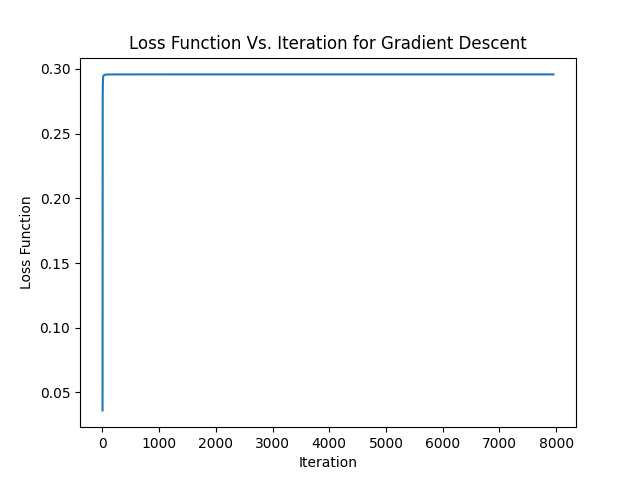
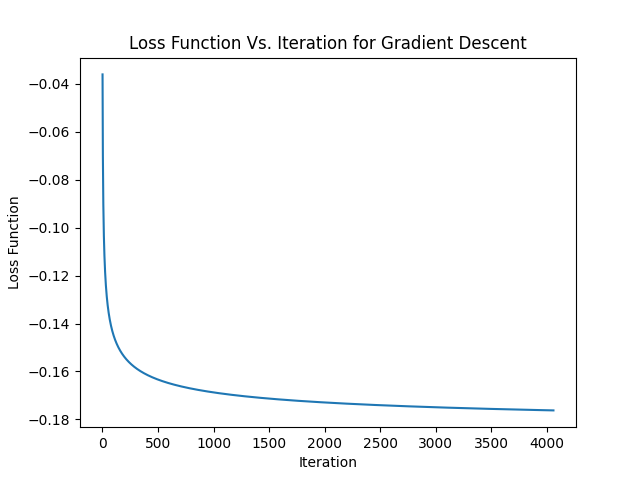
have part b of q4 kind of working

diff --git a/problem4/problem4_part2.py b/problem4/problem4_part2.py
@@ -52,7 +52,7 @@ def gradient_descent(
     beta : float,
     x : np.ndarray,
     y : np.ndarray,
-    tolerance : float = 1e-1
+    tolerance : float = 1e-8
 ) -> tuple[float, float, np.ndarray, np.ndarray, np.ndarray]:
     '''
     '''
@@ -75,9 +75,88 @@ def gradient_descent(
         new_w = np.array([params[0], params[1]])
         loss = loss_function(new_w, params[2], params[3], x, y)
         loss_history.append(loss)
-
-        print(np.dot(gradient.T, gradient))
     return params, loss_history
+
+def accelerated_gradient_descent(
+    w : np.ndarray,
+    alpha : float,
+    beta : float,
+    x : np.ndarray,
+    y : np.ndarray,
+    tolerance : float = 1e-8
+) -> tuple[float, float, np.ndarray, np.ndarray, np.ndarray]:
+    '''
+    '''
+    k = 1
+    loss_history = []
+
+    params_x = np.array([*w, alpha, beta])
+    params_x0 = params_x.copy()
+    params_x00 = params_x.copy()
+    params_y = params_x.copy()
+
+    loss = loss_function(w, alpha, beta, x, y)
+    loss_history.append(loss)
+    gradient = _gradient(w, alpha, beta, x, y)
+
+    while (np.dot(gradient.T, gradient) > tolerance):
+        new_w = np.array([params_x[0], params_x[1]])
+        gradient = _gradient(new_w, params_x[2], params_x[3], x, y)
+        step = exact_line_search(new_w, params_x[2], params_x[3], x, y, gradient)
+        
+        params_x = params_y + step * gradient
+        params_y = params_x0 + (k - 1) / (k + 2) * (params_x0 - params_x00)
+
+        loss_old = loss
+        new_w = np.array([params_x[0], params_x[1]])
+        loss = loss_function(new_w, params_x[2], params_x[3], x, y)
+        loss_history.append(loss)
+
+        params_x00 = params_x0.copy()
+        params_x0 = params_x.copy()
+
+        k += 1
+    return params_x, loss_history
+
+def stochastic_gradient_descent(
+    w : np.ndarray,
+    alpha : float,
+    beta : float,
+    x : np.ndarray,
+    y : np.ndarray,
+    tolerance : float = 1e-8
+) -> tuple[float, float, np.ndarray, np.ndarray, np.ndarray]:
+    '''
+    '''
+    loss_history = []
+
+    params = np.array([*w, alpha, beta])
+
+    x_batch = np.random.choice(x, size = 1)
+    y_batch = np.random.choice(y, size = 1)
+
+    loss = loss_function(w, alpha, beta, x, y)
+    loss_history.append(loss)
+    gradient = _gradient(w, alpha, beta, x_batch, y_batch) * len(y)
+
+    while (np.dot(gradient.T, gradient) > tolerance):
+        new_w = np.array([params[0], params[1]])
+
+        x_batch = np.random.choice(x, size = 1)
+        y_batch = np.random.choice(y, size = 1)
+
+        gradient = _gradient(new_w, params[2], params[3], x_batch, y_batch) * len(y)
+        step = exact_line_search(new_w, params[2], params[3], x_batch, y_batch, gradient)
+        
+        params = params + step * gradient
+
+        loss_old = loss
+        new_w = np.array([params[0], params[1]])
+        loss = loss_function(new_w, params[2], params[3], x, y)
+        loss_history.append(loss)
+
+    return params, loss_history
+ 
 
 if __name__ == '__main__':
     current_path = os.path.abspath(__file__)
@@ -92,6 +171,7 @@ if __name__ == '__main__':
 
     best_params, loss_history = gradient_descent(w, alpha, beta, x, y)
 
+    # =================
     # Plotting: Plot 1
     # =================
     iterations = np.arange(1, len(loss_history) + 1)
@@ -103,6 +183,46 @@ if __name__ == '__main__':
     plt.title('Loss Function Vs. Iteration for Gradient Descent')
     
     output_filepath = os.path.abspath(os.path.join(current_path, '..', '..', 'output', 'gradient_descent.png'))
+    plt.savefig(output_filepath)
+
+    plt.clf()
+    plt.cla()
+    # =================
+
+    best_params, loss_history = accelerated_gradient_descent(w, alpha, beta, x, y)
+
+    # =================
+    # Plotting: Plot 2
+    # =================
+    iterations = np.arange(1, len(loss_history) + 1)
+
+    ax = sns.lineplot(x = iterations, y = loss_history)
+
+    plt.xlabel('Iteration')
+    plt.ylabel('Loss Function')
+    plt.title('Loss Function Vs. Iteration for Accelerated Gradient Descent')
+    
+    output_filepath = os.path.abspath(os.path.join(current_path, '..', '..', 'output', 'accelerated_gradient_descent.png'))
+    plt.savefig(output_filepath)
+
+    plt.clf()
+    plt.cla()
+    # =================
+
+    best_params, loss_history = stochastic_gradient_descent(w, alpha, beta, x, y)
+
+    # =================
+    # Plotting: Plot 3
+    # =================
+    iterations = np.arange(1, len(loss_history) + 1)
+
+    ax = sns.lineplot(x = iterations, y = loss_history)
+
+    plt.xlabel('Iteration')
+    plt.ylabel('Loss Function')
+    plt.title('Loss Function Vs. Iteration for Stochastic Gradient Descent')
+    
+    output_filepath = os.path.abspath(os.path.join(current_path, '..', '..', 'output', 'stochastic_gradient_descent.png'))
     plt.savefig(output_filepath)
 
     plt.clf()

diff --git a/problem4/loss_function.py b/problem4/loss_function.py
@@ -17,20 +17,21 @@ def _partial_w(
 ) -> float:
     '''
     '''
-    _z_i1 = np.expand_dims(_sigma(alpha * x), axis = 0).T
-    _z_i2 = np.expand_dims(_sigma(beta * x), axis = 0).T
-    _z = np.hstack((_z_i1, _z_i2))
+    _z_i1 = w[0] * np.expand_dims(_sigma(alpha * x), axis = 0).T
+    _z_i2 = w[1] * np.expand_dims(_sigma(beta * x), axis = 0).T
+    inside_sigma = np.sum(np.hstack((_z_i1, _z_i2)), axis = 0)
 
-    inside_sigma = np.multiply(_z.T, w[:, np.newaxis]).T
+    y_new = np.vstack((y, y)).T
 
     dLdw = 2 *\
-            _sigma(inside_sigma) *\
+            (y_new - _sigma(inside_sigma)) *\
             _sigma(inside_sigma) *\
             [1 - _sigma(inside_sigma)] *\
-            np.sum(_z, axis = 0)
+            inside_sigma
 
-    I, J, K = dLdw.shape
-    dLdw = dLdw.reshape((J, K)) 
+    I, J = dLdw.shape
+
+    dLdw = dLdw.reshape((I, J)) 
 
     dLdw = -np.sum(dLdw, axis = 0)
 
@@ -45,21 +46,17 @@ def _partial_alpha(
 ) -> float:
     '''
     '''
-    _z_i1 = np.expand_dims(_sigma(alpha * x), axis = 0).T
-    _z_i2 = np.expand_dims(_sigma(beta * x), axis = 0).T
-    _z = np.hstack((_z_i1, _z_i2))
-
-    w = np.expand_dims(w, axis = 0)
-
-    inside_sigma = (w @ _z.T).flatten()
+    _z_i1 = w[0] * np.expand_dims(_sigma(alpha * x), axis = 0).T
+    _z_i2 = w[1] * np.expand_dims(_sigma(beta * x), axis = 0).T
+    inside_sigma = np.sum(np.hstack((_z_i1, _z_i2)), axis = 1)
 
     dLda = 2 *\
-            _sigma(inside_sigma) *\
+            (y - _sigma(inside_sigma)) *\
             _sigma(inside_sigma) *\
             [1 - _sigma(inside_sigma)] *\
-            w[0][0] *\
-            _sigma(alpha * _z_i1.flatten()) *\
-            [1 - _sigma(alpha * _z_i1.flatten())] *\
+            w[0] *\
+            _sigma(alpha * x) *\
+            [1 - _sigma(alpha * x)] *\
             x
 
     dLda = -np.sum(dLda)
@@ -74,21 +71,17 @@ def _partial_beta(
 ) -> float:
     '''
     '''
-    _z_i1 = np.expand_dims(_sigma(alpha * x), axis = 0).T
-    _z_i2 = np.expand_dims(_sigma(beta * x), axis = 0).T
-    _z = np.hstack((_z_i1, _z_i2))
-
-    w = np.expand_dims(w, axis = 0)
-
-    inside_sigma = (w @ _z.T).flatten()
+    _z_i1 = w[0] * np.expand_dims(_sigma(alpha * x), axis = 0).T
+    _z_i2 = w[1] * np.expand_dims(_sigma(beta * x), axis = 0).T
+    inside_sigma = np.sum(np.hstack((_z_i1, _z_i2)), axis = 1)
 
     dLdb = 2 *\
-            _sigma(inside_sigma) *\
+            (y - _sigma(inside_sigma)) *\
             _sigma(inside_sigma) *\
             [1 - _sigma(inside_sigma)] *\
-            w[0][1] *\
-            _sigma(beta * _z_i2.flatten()) *\
-            [1 - _sigma(beta * _z_i2.flatten())] *\
+            w[1] *\
+            _sigma(beta * x) *\
+            [1 - _sigma(beta * x)] *\
             x
 
     dLdb = -np.sum(dLdb)
@@ -119,15 +112,11 @@ def loss_function(
 ) -> np.ndarray:
     '''
     '''
-    _z_i1 = np.expand_dims(_sigma(alpha * x), axis = 0).T
-    _z_i2 = np.expand_dims(_sigma(beta * x), axis = 0).T
-    _z = np.hstack((_z_i1, _z_i2))
-
-    w = np.expand_dims(w, axis = 0)
-
-    inside_sigma = (w @ _z.T).flatten()
+    _z_i1 = w[0] * np.expand_dims(_sigma(alpha * x), axis = 0).T
+    _z_i2 = w[1] * np.expand_dims(_sigma(beta * x), axis = 0).T
+    inside_sigma = np.sum(np.hstack((_z_i1, _z_i2)), axis = 1)
 
     loss_values = (y - _sigma(inside_sigma))**2
 
-    _loss = np.sum(loss_values)
+    _loss = -np.sum(loss_values)
     return _loss
